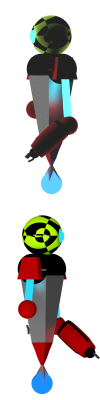
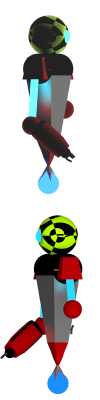
All users now use 1 spritesheet

diff --git a/LineRunnerShooter/LineRunnerShooter/Orih.cs b/LineRunnerShooter/LineRunnerShooter/Orih.cs
@@ -26,7 +26,7 @@ namespace LineRunnerShooter
         protected RobotMeleeARM robotARM;
 
 
-        public Orih(Texture2D textureL, Texture2D textureR, MoveMethod move, Texture2D bullet, Vector2 pos) : base(textureL, textureR, move, bullet)
+        public Orih(Texture2D textureL, MoveMethod move, Texture2D bullet, Vector2 pos) : base(textureL, move, bullet)
         {
             _spritePos = new Rectangle(pos.ToPoint(), new Point(60, 200));
             _Position = pos;
@@ -39,7 +39,7 @@ namespace LineRunnerShooter
             robotARM = new RobotMeleeARM(bullet);
             maxSpeed = 8;
         }
-        public Orih(Texture2D textureL, Texture2D textureR, MoveMethod move, Texture2D armpix, Texture2D bullet, Vector2 pos) : base(textureL, textureR, move, bullet)
+        public Orih(Texture2D textureL, Texture2D textureR, MoveMethod move, Texture2D armpix, Texture2D bullet, Vector2 pos) : base(textureL, move, bullet)
         {
             _spritePos = new Rectangle(pos.ToPoint(), new Point(60,200));
             _Position = pos;
@@ -52,7 +52,7 @@ namespace LineRunnerShooter
             robotARM = new RobotMeleeARM(armpix);
             maxSpeed = 8;
         }
-        public Orih(Texture2D textureL, Texture2D textureR,Rectangle spritePos, MoveMethod move, Texture2D armpix, Texture2D bullet, Vector2 pos) : base(textureL, textureR, move, bullet)
+        public Orih(Texture2D textureL, Texture2D textureR,Rectangle spritePos, MoveMethod move, Texture2D armpix, Texture2D bullet, Vector2 pos) : base(textureL, move, bullet)
         {
             _spritePos = spritePos;
             _Position = pos;

diff --git a/LineRunnerShooter/LineRunnerShooter/User.cs b/LineRunnerShooter/LineRunnerShooter/User.cs
@@ -49,11 +49,10 @@ namespace LineRunnerShooter
 
         public Vector2 Location { get { return _Position; } }
 
-        public User(Texture2D textureL, Texture2D textureR, MoveMethod move, Texture2D bullet)
+        public User(Texture2D texture, MoveMethod move, Texture2D bullet)
         {
             _texture = new List<Texture2D>();
-            _texture.Add(textureL);
-            _texture.Add(textureR);
+            _texture.Add(texture);
             _Action = 0;
             _Position = new Vector2(0, 500);
             time = 0;
@@ -117,8 +116,7 @@ namespace LineRunnerShooter
 
         public virtual void draw(SpriteBatch spriteBatch)
         {
-
-            spriteBatch.Draw(_texture[_Action], _Position, _spritePos, Color.White);
+            spriteBatch.Draw(_texture[0], _Position, _spritePos, Color.White);
             //spriteBatch.Draw(_texture[0], collisionBox.Left, _spritePos, Color.Red);
             //spriteBatch.Draw(_texture[0], collisionBox.Right, _spritePos, Color.Red);
             //spriteBatch.Draw(_texture[0], collisionBox.Feet, _spritePos, Color.Blue);
@@ -133,10 +131,12 @@ namespace LineRunnerShooter
                 case (0):
                     _Velocity.X = -(float)(speed);
                     _Action = 0;
+                    _spritePos.Y = _spritePos.Size.Y;
                     break;
                 case (1):
                     _Velocity.X = (float)(speed);
                     _Action = 1;
+                    _spritePos.Y = 0;
                     break;
                 default:
                     if (Math.Abs(_Velocity.X) < 1)

diff --git a/LineRunnerShooter/LineRunnerShooter/Hiro.cs b/LineRunnerShooter/LineRunnerShooter/Hiro.cs
@@ -109,7 +109,7 @@ namespace LineRunnerShooter
         int selectedARM = 1;
 
 
-        public Hiro2(Texture2D textureL, Texture2D textureR, MoveMethod move, Texture2D armtexture, Texture2D bullet, int posX, int posY) : base(textureL, textureR, move, bullet)
+        public Hiro2(Texture2D textureL, Texture2D textureR, MoveMethod move, Texture2D armtexture, Texture2D bullet, int posX, int posY) : base(textureL,  move, bullet)
         {
   
             _spritePos = new Rectangle(0, 0, 100, 200);
@@ -205,7 +205,7 @@ namespace LineRunnerShooter
                 arsenal[selectedARM].Draw(spriteBatch);
                 if (invincebleTime > 20)
                 {
-                    spriteBatch.Draw(_texture[_Action], _Position, _spritePos, Color.Red);
+                    spriteBatch.Draw(_texture[0], _Position, _spritePos, Color.Red);
                 }
             }
             else
@@ -214,7 +214,7 @@ namespace LineRunnerShooter
                 spriteBatch.Draw(_texture[0], _Position, _spritePos, Color.White);
                 if (invincebleTime > 20)
                 {
-                    spriteBatch.Draw(_texture[_Action], _Position, _spritePos, Color.Red);
+                    spriteBatch.Draw(_texture[0], _Position, _spritePos, Color.Red);
                 }
             }
             

diff --git a/LineRunnerShooter/LineRunnerShooter/Fyer.cs b/LineRunnerShooter/LineRunnerShooter/Fyer.cs
@@ -19,7 +19,7 @@ namespace LineRunnerShooter
      
     class Fyer : User //TODO: flyer of turret zodat er een challenge is om op meerdere nivea's te schieten
     {
-        public Fyer(Texture2D textureL, Texture2D textureR, MoveMethod move, Texture2D bullet) : base(textureL, textureR, move, bullet)
+        public Fyer(Texture2D textureL, Texture2D textureR, MoveMethod move, Texture2D bullet) : base(textureL, move, bullet)
         {
 
         }

diff --git a/LineRunnerShooter/LineRunnerShooter/Sheep.cs b/LineRunnerShooter/LineRunnerShooter/Sheep.cs
@@ -14,7 +14,7 @@ namespace LineRunnerShooter
      */ 
     class Sheep : User
     {
-        public Sheep(Texture2D textureL, Texture2D textureR, MoveMethod move, Texture2D bullet) : base(textureL, textureR, move, bullet) 
+        public Sheep(Texture2D textureL, Texture2D textureR, MoveMethod move, Texture2D bullet) : base(textureL, move, bullet) 
         {
         }
 
